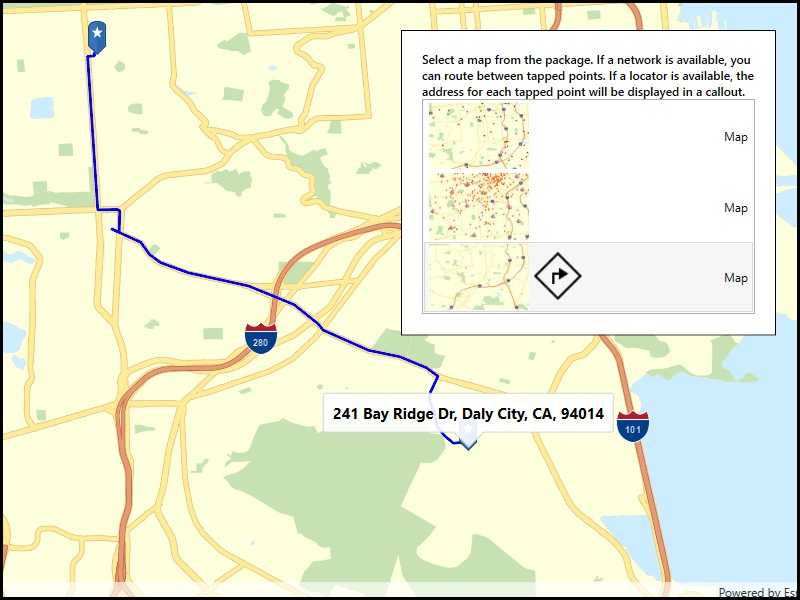
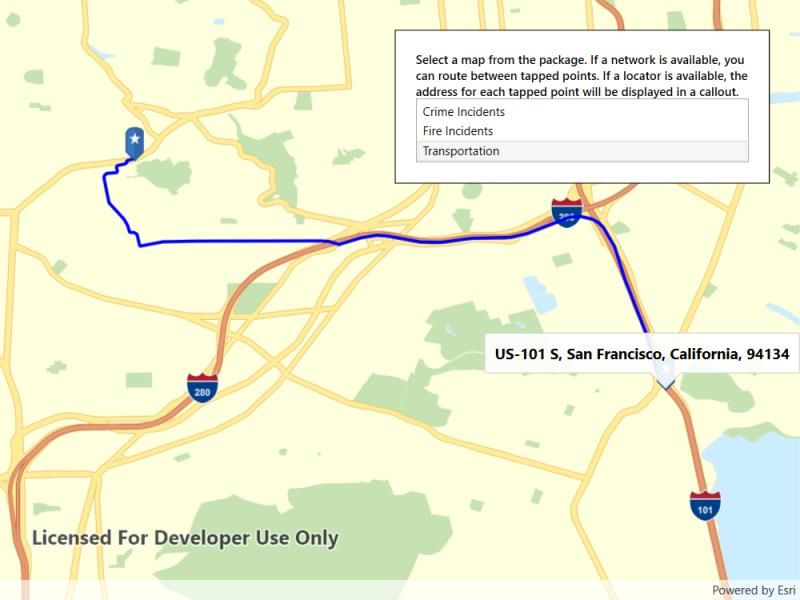
Removed converters using async code

diff --git a/src/MAUI/Maui.Samples/Samples/Map/MobileMapSearchAndRoute/MobileMapSearchAndRoute.xaml b/src/MAUI/Maui.Samples/Samples/Map/MobileMapSearchAndRoute/MobileMapSearchAndRoute.xaml
@@ -1,14 +1,9 @@
 <ContentPage x:Class="ArcGIS.Samples.MobileMapSearchAndRoute.MobileMapSearchAndRoute"
              xmlns="http://schemas.microsoft.com/dotnet/2021/maui"
              xmlns:x="http://schemas.microsoft.com/winfx/2009/xaml"
-             xmlns:converters="clr-namespace:ArcGIS.Converters"
              xmlns:esriUI="clr-namespace:Esri.ArcGISRuntime.Maui;assembly=Esri.ArcGISRuntime.Maui"
              xmlns:mapping="clr-namespace:Esri.ArcGISRuntime.Mapping;assembly=Esri.ArcGISRuntime"
              xmlns:resources="clr-namespace:ArcGIS.Resources">
-    <ContentPage.Resources>
-        <converters:NullOrEmptyToVisibilityConverter x:Key="NullToVisibilityConverter" />
-        <converters:ItemToImageSourceConverter x:Key="ItemToImageSourceConverter" />
-    </ContentPage.Resources>
     <Grid Style="{DynamicResource EsriSampleContainer}">
         <esriUI:MapView x:Name="MyMapView" Style="{DynamicResource EsriSampleGeoView}" />
         <Border Style="{DynamicResource EsriSampleControlPanel}">
@@ -18,29 +13,16 @@
                            MaximumWidthRequest="300"
                            Text="Select a map from the package. If a network is available, you can route between tapped points. If a locator is available, the address for each tapped point will be displayed in a callout." />
                     <ListView x:Name="MapListView"
-                              HeightRequest="150"
-                              ItemSelected="Map_Selected">
+                              Margin="0,5"
+                              HeightRequest="140"
+                              ItemSelected="Map_Selected"
+                              MaximumWidthRequest="400">
                         <ListView.ItemTemplate>
                             <DataTemplate x:DataType="mapping:Map">
                                 <ViewCell>
-                                    <Grid>
-                                        <Grid.ColumnDefinitions>
-                                            <ColumnDefinition Width="30" />
-                                            <ColumnDefinition Width="Auto" />
-                                            <ColumnDefinition Width="*" />
-                                        </Grid.ColumnDefinitions>
-                                        <Image Grid.Column="0" Source="{Binding Item, Converter={StaticResource ItemToImageSourceConverter}}" />
-                                        <Image Grid.Column="1"
-                                               Margin="5"
-                                               HeightRequest="25"
-                                               IsVisible="{Binding TransportationNetworks, Converter={StaticResource NullToVisibilityConverter}}"
-                                               Source="routingsymbol.png"
-                                               WidthRequest="25" />
-                                        <Label Grid.Column="2"
-                                               HorizontalTextAlignment="End"
-                                               Text="{Binding Item.Name}"
-                                               VerticalTextAlignment="Center" />
-                                    </Grid>
+                                    <Label HorizontalTextAlignment="Start"
+                                           Text="{Binding Item.Name}"
+                                           VerticalTextAlignment="Center" />
                                 </ViewCell>
                             </DataTemplate>
                         </ListView.ItemTemplate>

diff --git a/src/WinUI/ArcGIS.WinUI.Viewer/Samples/Map/MobileMapSearchAndRoute/MobileMapSearchAndRoute.xaml b/src/WinUI/ArcGIS.WinUI.Viewer/Samples/Map/MobileMapSearchAndRoute/MobileMapSearchAndRoute.xaml
@@ -1,13 +1,8 @@
 <UserControl x:Class="ArcGIS.WinUI.Samples.MobileMapSearchAndRoute.MobileMapSearchAndRoute"
              xmlns="http://schemas.microsoft.com/winfx/2006/xaml/presentation"
              xmlns:x="http://schemas.microsoft.com/winfx/2006/xaml"
-             xmlns:converters="using:ArcGIS.WinUI.Viewer.Converters"
              xmlns:esriUI="using:Esri.ArcGISRuntime.UI.Controls"
              xmlns:mapping="using:Esri.ArcGISRuntime.Mapping">
-    <UserControl.Resources>
-        <converters:ItemToImageSourceConverter x:Key="ItemToImageSourceConverter" />
-        <converters:NullOrEmptyToVisibilityConverter x:Key="NullToVisibilityConverter" />
-    </UserControl.Resources>
     <Grid>
         <esriUI:MapView x:Name="MyMapView" />
         <Border Style="{StaticResource BorderStyle}">
@@ -25,24 +20,11 @@
                     </ListBox.ItemContainerStyle>
                     <ListBox.ItemTemplate>
                         <DataTemplate x:DataType="mapping:Map">
-                            <Grid>
-                                <Grid.ColumnDefinitions>
-                                    <ColumnDefinition Width="100" />
-                                    <ColumnDefinition Width="Auto" />
-                                    <ColumnDefinition Width="*" />
-                                </Grid.ColumnDefinitions>
-                                <Image Grid.Column="0" Source="{Binding Item, Converter={StaticResource ItemToImageSourceConverter}}" />
-                                <Image Grid.Column="1"
-                                       Width="50"
-                                       Height="50"
-                                       Margin="5"
-                                       Source="ms-appx:///Assets/routingSymbol.png"
-                                       Visibility="{Binding TransportationNetworks, Converter={StaticResource NullToVisibilityConverter}}" />
-                                <TextBlock Grid.Column="2"
-                                           VerticalAlignment="Center"
-                                           Text="{Binding Item.Title}"
-                                           TextAlignment="Right" />
-                            </Grid>
+                            <StackPanel>
+                                <TextBlock VerticalAlignment="Center"
+                                           Text="{Binding Item.Name}"
+                                           TextAlignment="Left" />
+                            </StackPanel>
                         </DataTemplate>
                     </ListBox.ItemTemplate>
                 </ListBox>

diff --git a/src/WPF/WPF.Viewer/Samples/Map/MobileMapSearchAndRoute/MobileMapSearchAndRoute.xaml b/src/WPF/WPF.Viewer/Samples/Map/MobileMapSearchAndRoute/MobileMapSearchAndRoute.xaml
@@ -1,12 +1,7 @@
 <UserControl x:Class="ArcGIS.WPF.Samples.MobileMapSearchAndRoute.MobileMapSearchAndRoute"
              xmlns="http://schemas.microsoft.com/winfx/2006/xaml/presentation"
              xmlns:x="http://schemas.microsoft.com/winfx/2006/xaml"
-             xmlns:converters="clr-namespace:ArcGIS.WPF.Viewer.Converters"
              xmlns:esri="http://schemas.esri.com/arcgis/runtime/2013">
-    <UserControl.Resources>
-        <converters:ItemToImageSourceConverter x:Key="ItemToImageSourceConverter" />
-        <converters:NullOrEmptyToVisibilityConverter x:Key="NullToVisibilityConverter" />
-    </UserControl.Resources>
     <Grid>
         <esri:MapView x:Name="MyMapView" />
         <Border Style="{StaticResource BorderStyle}">
@@ -22,24 +17,11 @@
                     </ListBox.ItemContainerStyle>
                     <ListBox.ItemTemplate>
                         <DataTemplate DataType="esri:Map">
-                            <Grid>
-                                <Grid.ColumnDefinitions>
-                                    <ColumnDefinition Width="100" />
-                                    <ColumnDefinition Width="Auto" />
-                                    <ColumnDefinition Width="*" />
-                                </Grid.ColumnDefinitions>
-                                <Image Grid.Column="0" Source="{Binding Item, Converter={StaticResource ItemToImageSourceConverter}}" />
-                                <Image Grid.Column="1"
-                                       Width="50"
-                                       Height="50"
-                                       Margin="5"
-                                       Source="../../../Resources/routingSymbol.png"
-                                       Visibility="{Binding TransportationNetworks, Converter={StaticResource NullToVisibilityConverter}}" />
-                                <TextBlock Grid.Column="2"
-                                           VerticalAlignment="Center"
-                                           Text="{Binding Item.Title}"
-                                           TextAlignment="Right" />
-                            </Grid>
+                            <StackPanel>
+                                <TextBlock VerticalAlignment="Center"
+                                           Text="{Binding Item.Name}"
+                                           TextAlignment="Left" />
+                            </StackPanel>
                         </DataTemplate>
                     </ListBox.ItemTemplate>
                 </ListBox>

diff --git a/src/MAUI/Maui.Samples/Samples/Map/MobileMapSearchAndRoute/MobileMapSearchAndRoute.xaml.cs b/src/MAUI/Maui.Samples/Samples/Map/MobileMapSearchAndRoute/MobileMapSearchAndRoute.xaml.cs
@@ -27,7 +27,6 @@ namespace ArcGIS.Samples.MobileMapSearchAndRoute
         instructions: "A list of maps from a mobile map package will be displayed. If the map contains transportation networks, the list item will have a navigation icon. Tap on a map in the list to open it. If a locator task is available, tap on the map to reverse geocode the location's address. If transportation networks are available, a route will be calculated between geocode locations.",
         tags: new[] { "disconnected", "field mobility", "geocode", "network", "network analysis", "offline", "routing", "search", "transportation" })]
     [ArcGIS.Samples.Shared.Attributes.OfflineData("260eb6535c824209964cf281766ebe43")]
-    [ArcGIS.Samples.Shared.Attributes.ClassFile("Converters/NullToVisibilityConverter.cs", "Converters/ItemToImageSourceConverter.cs")]
     public partial class MobileMapSearchAndRoute : ContentPage
     {
         // Hold references to map resources for easy access.

diff --git a/src/WinUI/ArcGIS.WinUI.Viewer/Samples/Map/MobileMapSearchAndRoute/MobileMapSearchAndRoute.xaml.cs b/src/WinUI/ArcGIS.WinUI.Viewer/Samples/Map/MobileMapSearchAndRoute/MobileMapSearchAndRoute.xaml.cs
@@ -33,7 +33,6 @@ namespace ArcGIS.WinUI.Samples.MobileMapSearchAndRoute
         instructions: "A list of maps from a mobile map package will be displayed. If the map contains transportation networks, the list item will have a navigation icon. Click on a map in the list to open it. If a locator task is available, click on the map to reverse geocode the location's address. If transportation networks are available, a route will be calculated between geocode locations.",
         tags: new[] { "disconnected", "field mobility", "geocode", "network", "network analysis", "offline", "routing", "search", "transportation" })]
     [ArcGIS.Samples.Shared.Attributes.OfflineData("260eb6535c824209964cf281766ebe43")]
-    [ArcGIS.Samples.Shared.Attributes.ClassFile("Converters\\ItemToImageSourceConverter.cs", "Converters\\NullToVisibilityConverter.cs")]
     public partial class MobileMapSearchAndRoute
     {
         // Hold references to map resources for easy access.

diff --git a/src/WPF/WPF.Viewer/Samples/Map/MobileMapSearchAndRoute/MobileMapSearchAndRoute.xaml.cs b/src/WPF/WPF.Viewer/Samples/Map/MobileMapSearchAndRoute/MobileMapSearchAndRoute.xaml.cs
@@ -34,7 +34,6 @@ namespace ArcGIS.WPF.Samples.MobileMapSearchAndRoute
         instructions: "A list of maps from a mobile map package will be displayed. If the map contains transportation networks, the list item will have a navigation icon. Click on a map in the list to open it. If a locator task is available, click on the map to reverse geocode the location's address. If transportation networks are available, a route will be calculated between geocode locations.",
         tags: new[] { "disconnected", "field mobility", "geocode", "network", "network analysis", "offline", "routing", "search", "transportation" })]
     [ArcGIS.Samples.Shared.Attributes.OfflineData("260eb6535c824209964cf281766ebe43")]
-    [ArcGIS.Samples.Shared.Attributes.ClassFile("Converters\\ItemToImageSourceConverter.cs", "Converters\\NullToVisibilityConverter.cs")]
     public partial class MobileMapSearchAndRoute
     {
         // Hold references to map resources for easy access.
